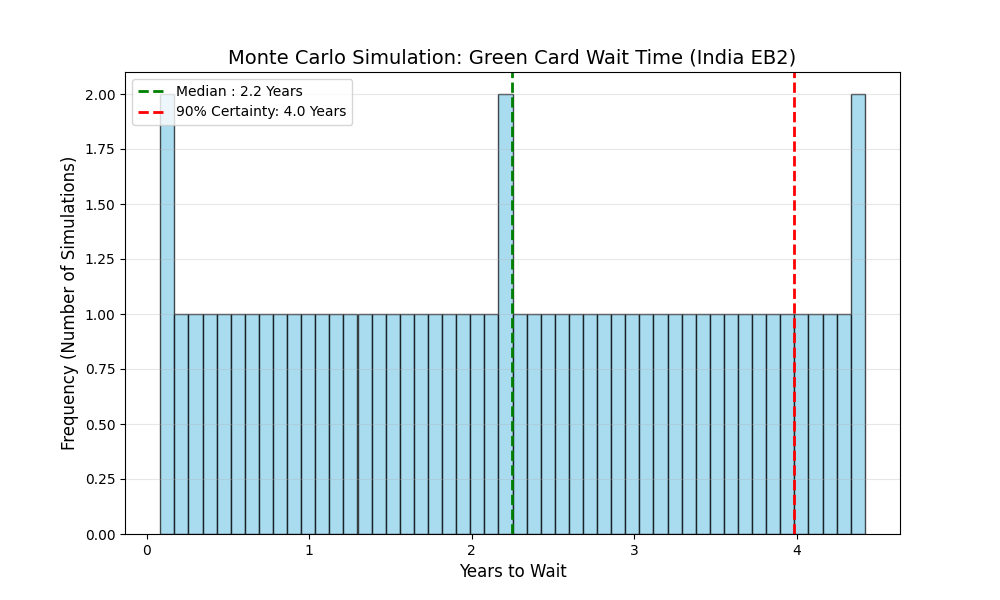
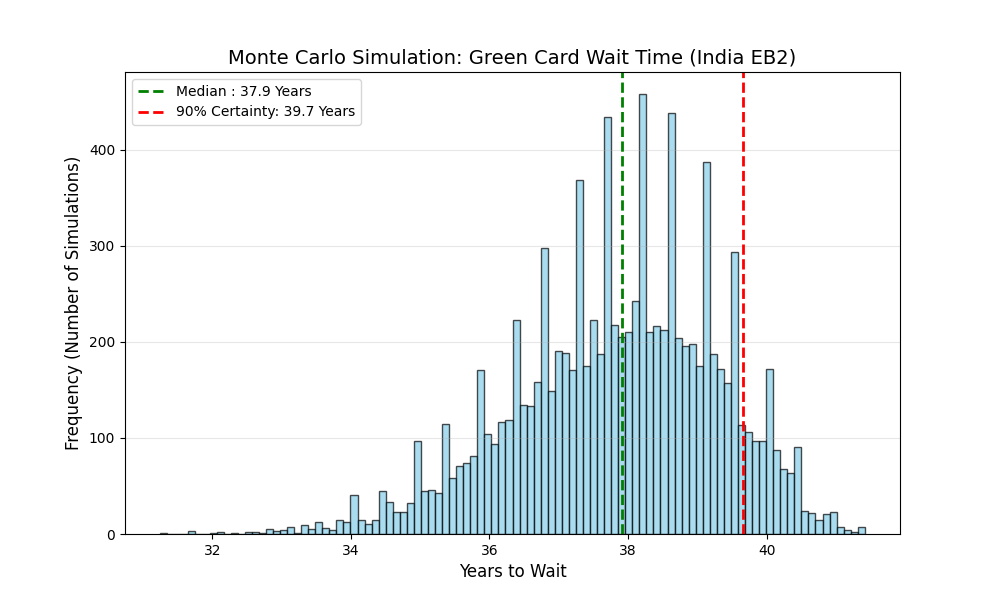
made monte carlo faster

diff --git a/scripts/monte_carlo.py b/scripts/monte_carlo.py
@@ -14,67 +14,97 @@ def get_spillover_for_year():
         return np.random.randint(100, 500)
     else:
         return np.random.randint(2000, 8000)
-def run_monte_carlo(vdp, priority_date, country_cap = 0.07, pref_percent = 0.286, annual_quota = 140000, sims = 10000):
+
+def run_monte_carlo(vdp, priority_date, current_bulletin_date, country_cap=0.07, pref_percent=0.286, annual_quota=140000, sims=10000):
     inv = vdp.flatten()
     inv = inv[inv["Visa Status"] == "Awaiting Availability"].sort_values("Date")
-    hidden_total = vdp.get_i140_snapshot()
+    bulletin_cutoff = pd.to_datetime(current_bulletin_date)
+    inv = inv[inv["Date"] >= bulletin_cutoff]
     
-    monthly_quota = (annual_quota * 0.07 * 0.286) / 12
-    target_date = pd.to_datetime(priority_date)
+    inv_dates = pd.to_datetime(inv["Date"]).values
+    inv_counts = inv["Count"].astype(float).values
+    
+    hidden_total = float(vdp.get_i140_snapshot())
+    
+    monthly_quota = (annual_quota * country_cap * pref_percent) / 12
+    target_date = pd.to_datetime(priority_date).to_datetime64()
+    
+    if target_date < bulletin_cutoff.to_datetime64():
+        print("User is already current! Wait time is 0.")
+        return [0] * sims
     results = []
     
-    if inv.empty:
-        max_inv_date = pd.Timestamp.min
+    if len(inv_dates) == 0:
+        max_inv_date = np.datetime64('1677-09-21')
     else:
-        max_inv_date = inv["Date"].max()
+        max_inv_date = inv_dates.max()
+        
     is_hidden = target_date > max_inv_date
+    
     for _ in range(sims):
         sim_hidden = hidden_total
-        sim_inv = inv.copy()
+        sim_counts = inv_counts.copy()
+        
+        idx = 0
+        max_idx = len(sim_counts)
+        
         months_passed = 0
         user_reached = False
-        spillover = get_spillover_for_year()
+        
+        spillover = get_spillover_for_year() / 12
+        
         while not user_reached:
+            if months_passed > 0 and months_passed % 12 == 0:
+                spillover = get_spillover_for_year() / 12
+                
             uscis_efficiency = np.random.uniform(0.8, 1.2)
             current_supply = monthly_quota * uscis_efficiency + spillover
             
             annual_dropout = np.random.uniform(0.02, 0.08)
             monthly_dropout_factor = 1 - (annual_dropout) / 12
             sim_hidden *= monthly_dropout_factor
-            if months_passed > 0 and months_passed % 12 == 0:
-                spillover = get_spillover_for_year()
-            if not sim_inv.empty:
-                idx = sim_inv.index[0]
-                if not is_hidden and sim_inv.at[idx, "Date"] > target_date:
+            
+            if idx < max_idx:
+                if not is_hidden and inv_dates[idx] > target_date:
                     user_reached = True
                     break
-                sim_inv.at[idx, "Count"] -= current_supply
-                while not sim_inv.empty and sim_inv.iloc[0]["Count"] <= 0:
-                    leftover_visas = abs(sim_inv.iloc[0]["Count"])
-                    sim_inv = sim_inv.iloc[1:]
-                    if not sim_inv.empty:
-                        idx = sim_inv.index[0]
-                        sim_inv.at[idx, "Count"] -= leftover_visas
+                
+                sim_counts[idx] -= current_supply
+                
+                while idx < max_idx and sim_counts[idx] <= 0:
+                    leftover_visas = abs(sim_counts[idx])
+                    idx += 1
+                    
+                    if idx < max_idx:
+                        sim_counts[idx] -= leftover_visas
                     else:
                         sim_hidden -= leftover_visas
             else:
                 sim_hidden -= current_supply
-            if is_hidden and sim_inv.empty and sim_hidden <= 0:
+                
+            if is_hidden and idx >= max_idx and sim_hidden <= 0:
                 user_reached = True
-            if not is_hidden and sim_inv.empty:
+            if not is_hidden and idx >= max_idx:
                 user_reached = True
+                
             months_passed += 1
             if months_passed > 1200:
                 break
-            results.append(months_passed / 12)
-        return results
+                
+        results.append(months_passed / 12)
+        
+    return results
+
 def plot_simulation_results(results, country, preference):
+    if not results or results == [0] * len(results):
+        print("no plot needed, date is already current")
+        return
     plt.figure(figsize=(10, 6))
-    plt.hist(results, bins=50, color="skyblue", edgecolor="black", alpha=0.7)
+    plt.hist(results, bins=100, color="skyblue", edgecolor="black", alpha=0.7)
     avg_years = np.mean(results)
     median_years = np.median(results)
     safe_years = np.percentile(results, 90)
-    plt.axvline(median_years, color = "green", linestyle = "dashed", linewidth = 2, label = f"Median : {median_years:.1f} Years")
+    plt.axvline(median_years, color="green", linestyle="dashed", linewidth=2, label=f"Median : {median_years:.1f} Years")
     plt.axvline(safe_years, color='red', linestyle='dashed', linewidth=2, label=f'90% Certainty: {safe_years:.1f} Years')
     plt.title(f'Monte Carlo Simulation: Green Card Wait Time ({country} {preference})', fontsize=14)
     plt.xlabel('Years to Wait', fontsize=12)
@@ -85,11 +115,10 @@ def plot_simulation_results(results, country, preference):
     plt.savefig(output_file)
     print(f"Plot saved to {output_file}")
     plt.close()
+
 if __name__ == "__main__":
-    file = file_path = os.path.join(os.getcwd(), "data", "eb_inventory_october_2025.xlsx")
+    file = os.path.join(os.getcwd(), "data", "eb_inventory_october_2025.xlsx")
     vdp = VisaDataProcessor(file, "India", "EB2")
-    final_results = run_monte_carlo(vdp, "2014-12-01", sims=10000000)
-    vdp.create_line_chart()
-    print(final_results)
+    final_results = run_monte_carlo(vdp, "2016-12-01", "2013-07-15", sims=10000)
+    print(final_results[:10])
     plot_simulation_results(final_results, "India", "EB2")
-    

diff --git a/scripts/monte_carlo_backup.py b/scripts/monte_carlo_backup.py
@@ -1,0 +1,118 @@
+# slow backup that needs to be optimized
+# import os
+# import pandas as pd
+
+# import numpy as np
+# import matplotlib.pyplot as plt
+# from flatten_data import VisaDataProcessor
+
+# def get_spillover_for_year():
+#     scenarios = ["pessimistic", "realistic", "optimistic"]
+#     probabilties = [0.6, 0.3, 0.1]
+#     chosen_scenario = np.random.choice(scenarios, p=probabilties)
+#     if chosen_scenario == "pessimistic":
+#         return np.random.randint(0, 50)
+#     elif chosen_scenario == "realistic":
+#         return np.random.randint(100, 500)
+#     else:
+#         return np.random.randint(2000, 8000)
+
+# def run_monte_carlo(vdp, priority_date, country_cap=0.07, pref_percent=0.286, annual_quota=140000, sims=10000):
+#     inv = vdp.flatten()
+#     inv = inv[inv["Visa Status"] == "Awaiting Availability"].sort_values("Date")
+    
+#     inv_counts = inv["Count"].astype(float).values
+    
+#     hidden_total = float(vdp.get_i140_snapshot())
+    
+#     monthly_quota = (annual_quota * country_cap * pref_percent) / 12
+#     target_date = pd.to_datetime(priority_date).to_datetime64()
+#     results = []
+    
+#     if len(inv_dates) == 0:
+#         max_inv_date = np.datetime64('1677-09-21')
+#     else:
+#         max_inv_date = inv_dates.max()
+        
+#     is_hidden = target_date > max_inv_date
+    
+#     for _ in range(sims):
+#         sim_hidden = hidden_total
+#         sim_counts = inv_counts.copy()
+        
+#         idx = 0
+#         max_idx = len(sim_counts)
+        
+#         months_passed = 0
+#         user_reached = False
+        
+#         spillover = get_spillover_for_year() / 12
+        
+#         while not user_reached:
+#             if months_passed > 0 and months_passed % 12 == 0:
+#                 spillover = get_spillover_for_year() / 12
+                
+#             uscis_efficiency = np.random.uniform(0.8, 1.2)
+#             current_supply = monthly_quota * uscis_efficiency + spillover
+            
+#             annual_dropout = np.random.uniform(0.02, 0.08)
+#             monthly_dropout_factor = 1 - (annual_dropout) / 12
+#             sim_hidden *= monthly_dropout_factor
+            
+#             if idx < max_idx:
+#                 if not is_hidden and inv_dates[idx] > target_date:
+#                     user_reached = True
+#                     break
+                
+#                 sim_counts[idx] -= current_supply
+                
+#                 while idx < max_idx and sim_counts[idx] <= 0:
+#                     leftover_visas = abs(sim_counts[idx])
+#                     idx += 1
+                    
+#                     if idx < max_idx:
+#                         sim_counts[idx] -= leftover_visas
+#                     else:
+#                         sim_hidden -= leftover_visas
+#             else:
+#                 sim_hidden -= current_supply
+                
+#             if is_hidden and idx >= max_idx and sim_hidden <= 0:
+#                 user_reached = True
+#             if not is_hidden and idx >= max_idx:
+#                 user_reached = True
+                
+#             months_passed += 1
+#             if months_passed > 1200:
+#                 break
+                
+#         results.append(months_passed / 12)
+        
+#     return results
+
+# def plot_simulation_results(results, country, preference):
+#     if not results:
+#         return
+#     plt.figure(figsize=(10, 6))
+#     plt.hist(results, bins=100, color="skyblue", edgecolor="black", alpha=0.7)
+#     avg_years = np.mean(results)
+#     median_years = np.median(results)
+#     safe_years = np.percentile(results, 90)
+#     plt.axvline(median_years, color="green", linestyle="dashed", linewidth=2, label=f"Median : {median_years:.1f} Years")
+#     plt.axvline(safe_years, color='red', linestyle='dashed', linewidth=2, label=f'90% Certainty: {safe_years:.1f} Years')
+#     plt.title(f'Monte Carlo Simulation: Green Card Wait Time ({country} {preference})', fontsize=14)
+#     plt.xlabel('Years to Wait', fontsize=12)
+#     plt.ylabel('Frequency (Number of Simulations)', fontsize=12)
+#     plt.legend()
+#     plt.grid(axis='y', alpha=0.3)
+#     output_file = "simulation_result.png"
+#     plt.savefig(output_file)
+#     print(f"Plot saved to {output_file}")
+#     plt.close()
+
+# if __name__ == "__main__":
+#     file = os.path.join(os.getcwd(), "data", "eb_inventory_october_2025.xlsx")
+#     vdp = VisaDataProcessor(file, "India", "EB2")
+#     final_results = run_monte_carlo(vdp, "2014-12-01", sims=10000)
+#     print(final_results[:10])
+#     plot_simulation_results(final_results, "India", "EB2")

diff --git a/scripts/flatten_data.py b/scripts/flatten_data.py
@@ -60,4 +60,5 @@ class VisaDataProcessor():
         }
         if row.empty:
             return 0
+        print(int(row[mapping.get(self.preference)].iloc[0]))
         return int(row[mapping.get(self.preference)].iloc[0])
